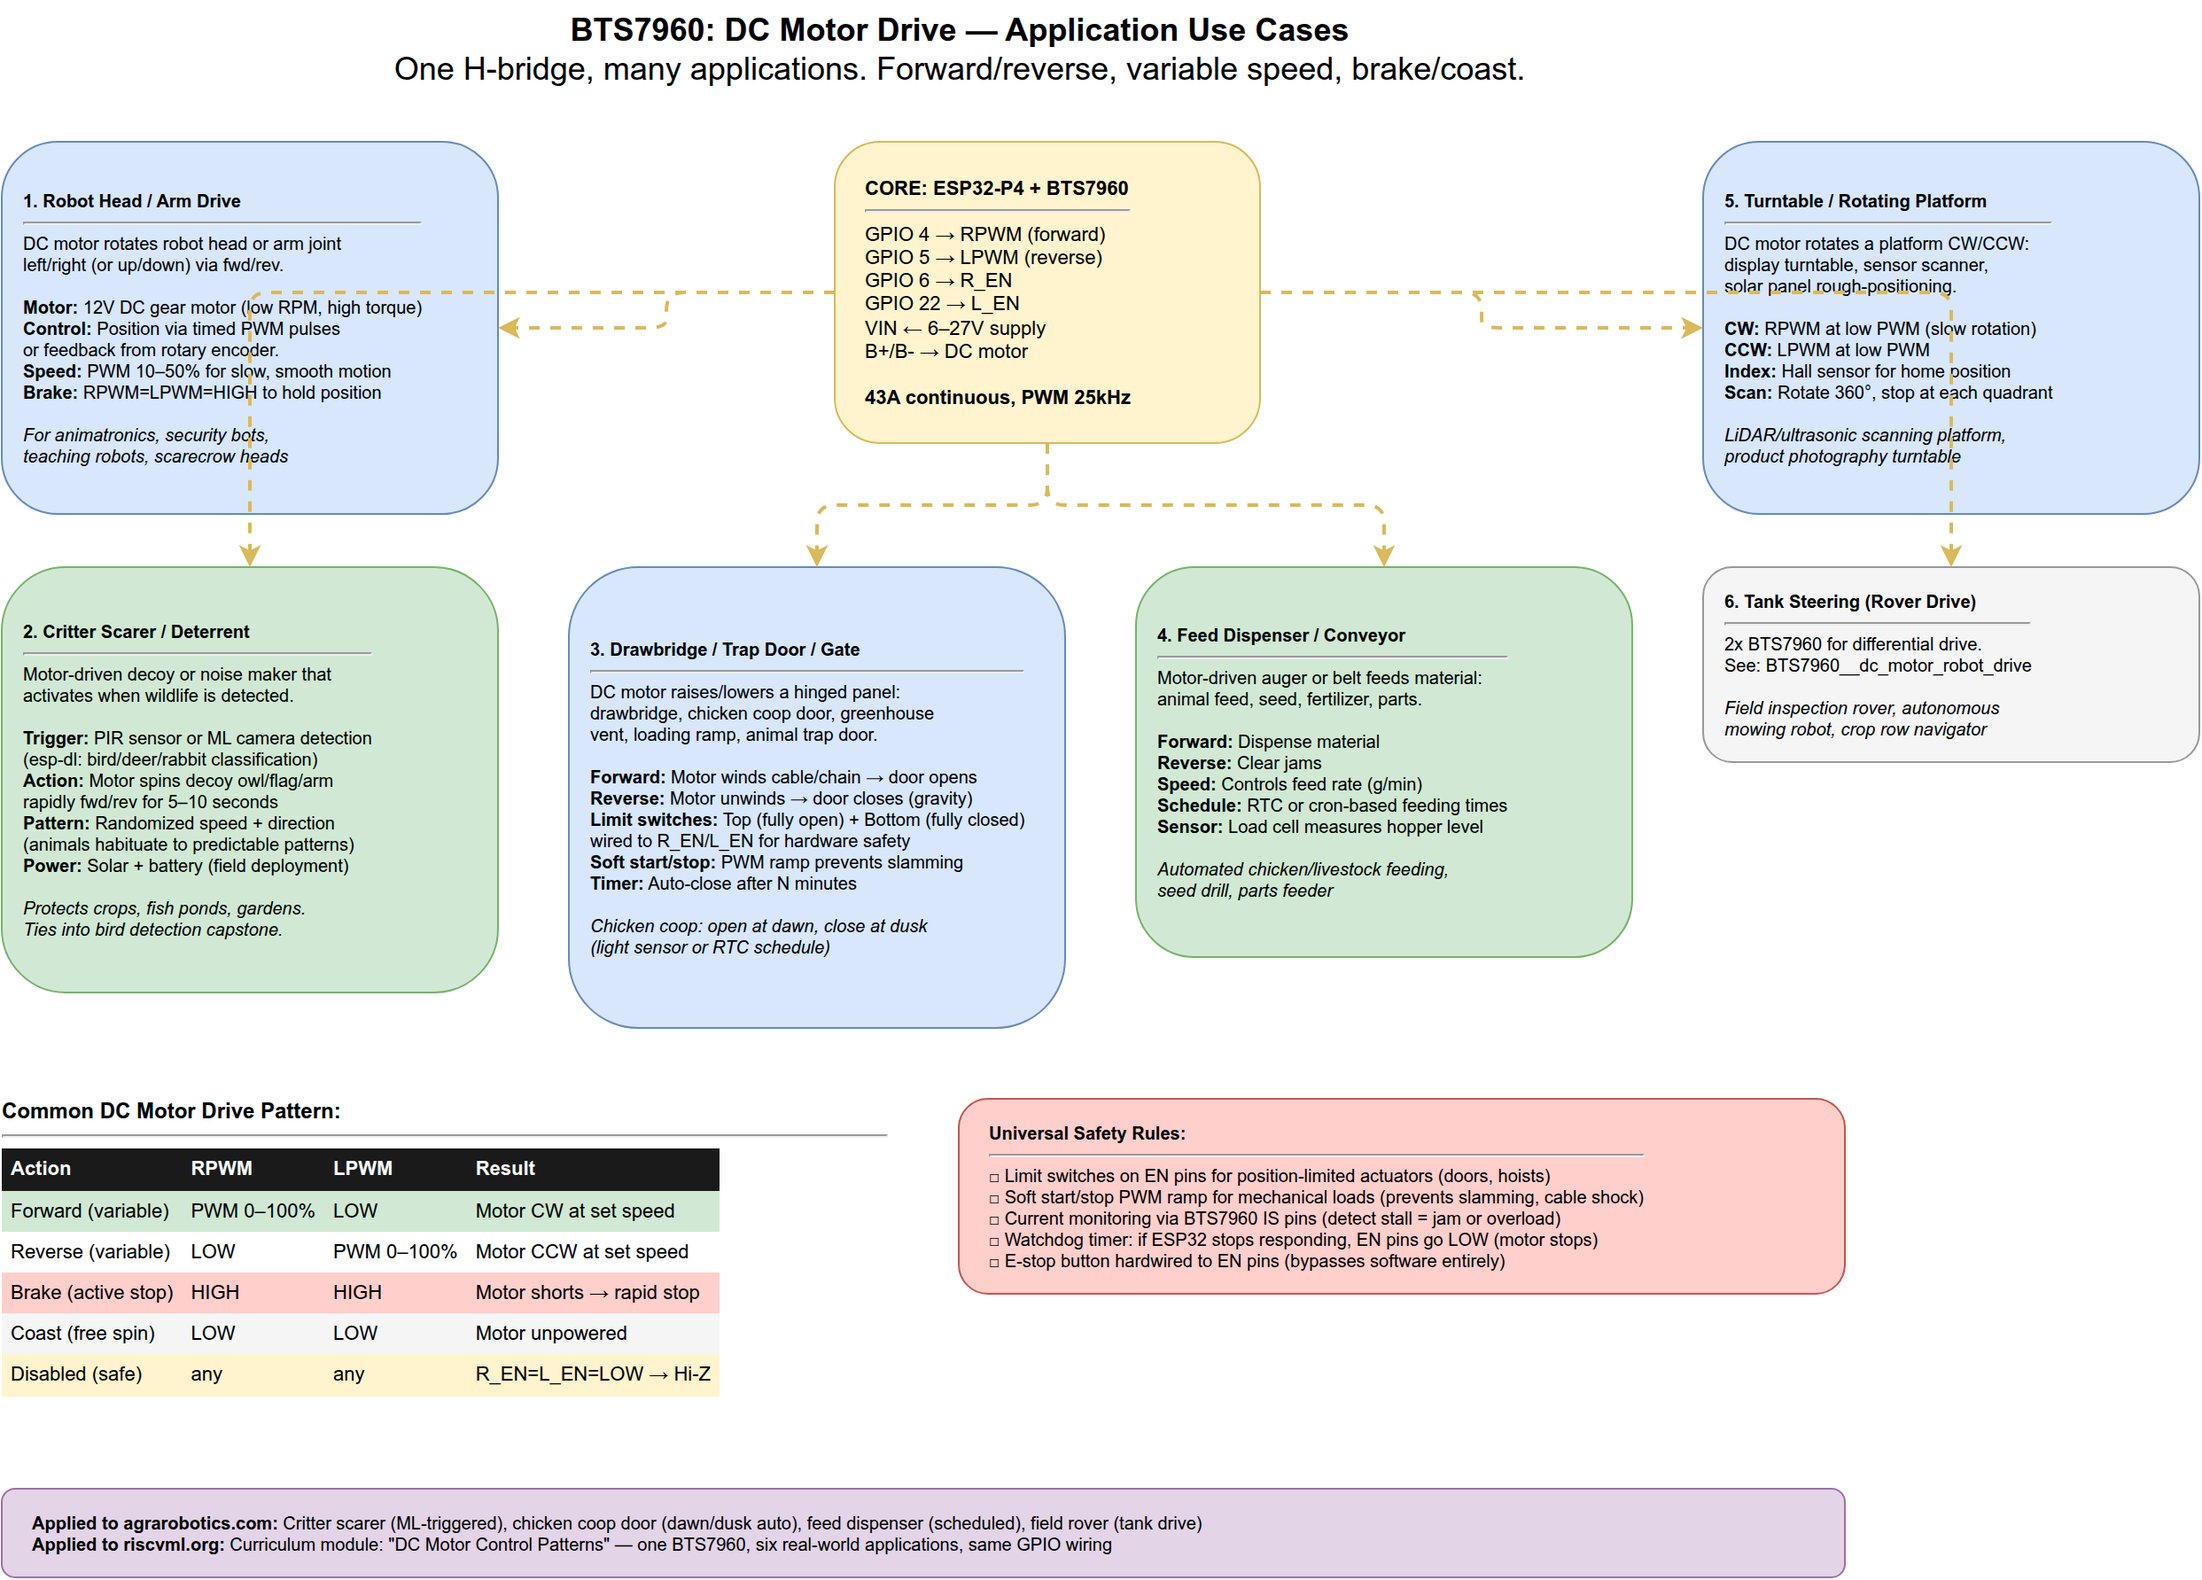
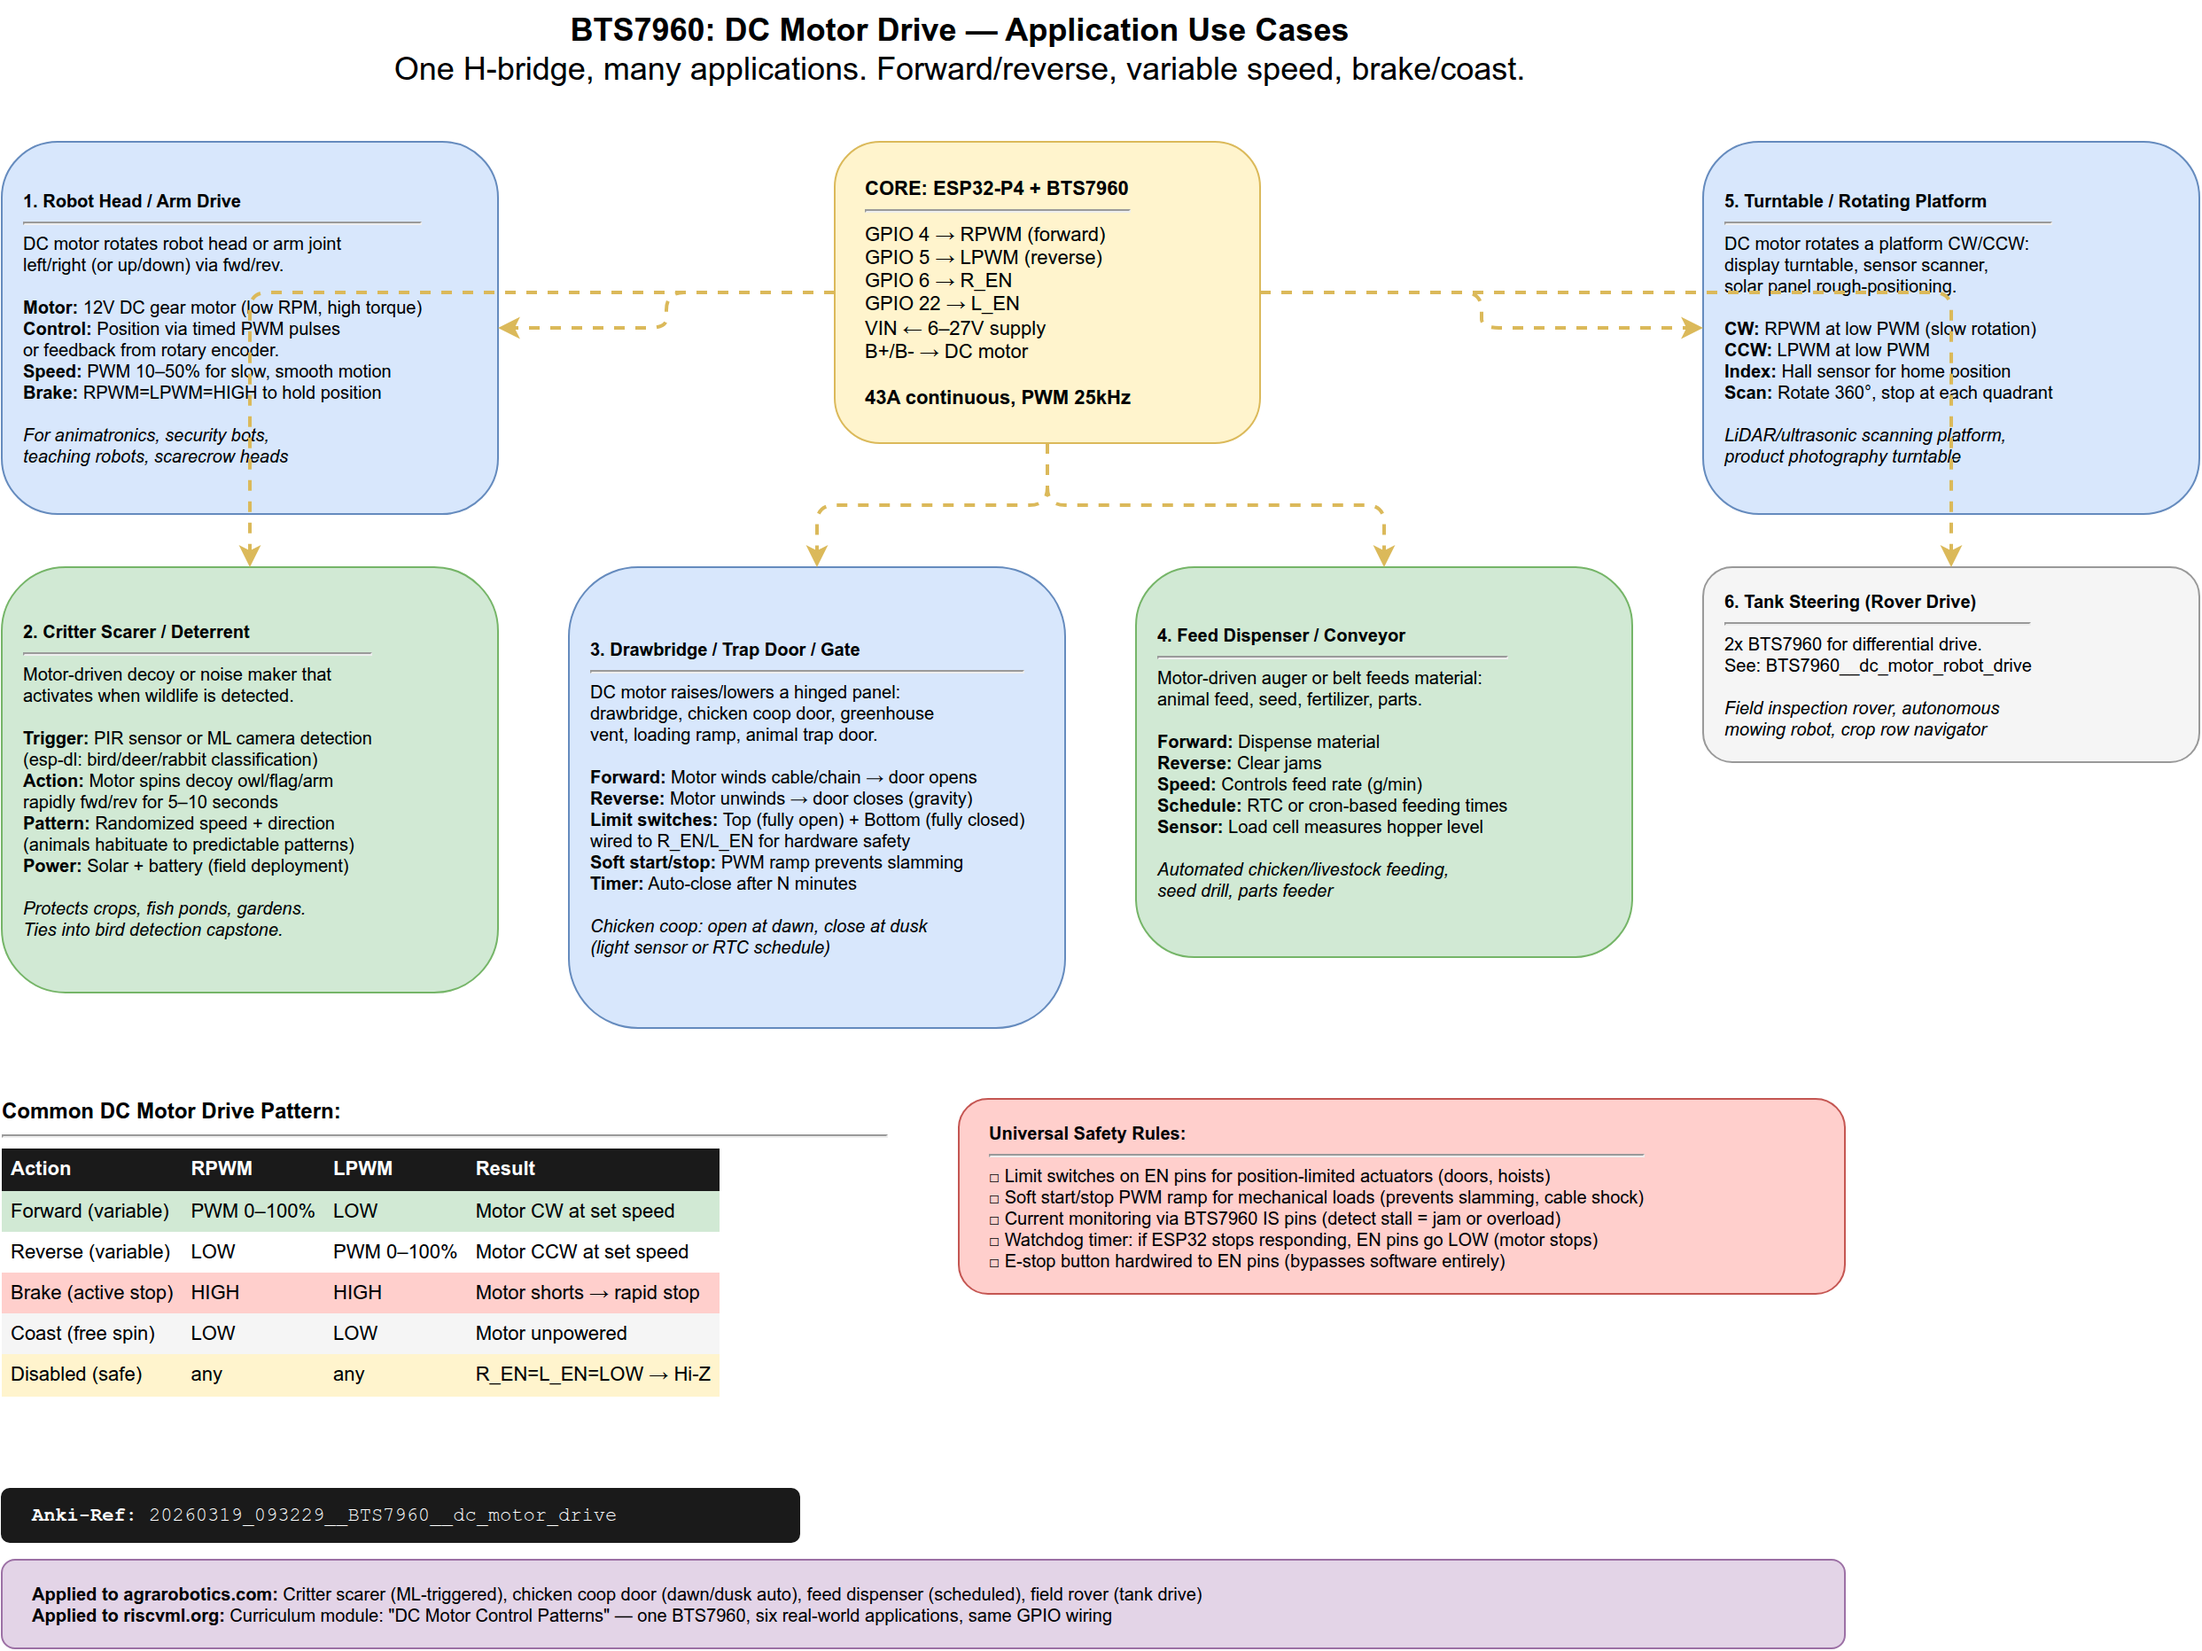
Add Anki-Ref convention: anki_refs/ and pics/ folders, label on diagrams
- Added Anki-Ref label (black bar) to dc_motor_drive diagram
- Created anki_refs/ folder for .apkg deck exports
- Created pics/ folder for build photos
- Updated svbprj.md with folder structure and Anki-Ref convention docs
- Format: <YYYYMMDD>_<HHMMSS>__<component>__<use_case>

diff --git a/esp32-p4_knuggets/rs_riscvml__esp32-p4-wifi6-kit-a__motor_driver_IBT2_BTS7960__servo_driver_PCA9685/svbprj.md b/esp32-p4_knuggets/rs_riscvml__esp32-p4-wifi6-kit-a__motor_driver_IBT2_BTS7960__servo_driver_PCA9685/svbprj.md
@@ -4,6 +4,35 @@
 **Board:** Waveshare ESP32-P4-WIFI6 Kit A
 **Modules:** IBT-2 (BTS7960 dual H-bridge) + PCA9685 (16-ch I2C servo driver)
 **Status:** IBT-2 firmware builds ✓ · PCA9685 firmware TODO
+**Anki-Ref:** `20260319_093229__BTS7960__dc_motor_drive`
+
+## Project Folder Structure
+
+```
+rs_riscvml__...__motor_driver_IBT2_BTS7960__servo_driver_PCA9685/
+├── svbprj.md                          ← this file
+├── anki_refs/                         ← Anki flashcard decks (.apkg exports)
+├── pics/                              ← photos of physical builds
+├── docs_about__motor_driver_.../      ← diagrams & docs
+│   ├── bts7960_usecases/              ← BTS7960 use-case diagrams + PNGs
+│   └── pca9685_usecases/              ← PCA9685 use-case diagrams + PNGs
+├── ...__free/                         ← student scaffolding (public)
+└── ...__full/                         ← reference solution (private)
+```
+
+### Anki-Ref Convention
+
+Each project/diagram has an Anki flashcard reference linking it to the Anki spaced-repetition deck:
+
+```
+Format: <YYYYMMDD>_<HHMMSS>__<component>__<use_case>
+Example: 20260319_093229__BTS7960__dc_motor_drive
+```
+
+- The `anki_refs/` folder holds exported Anki deck files (`.apkg`)
+- The `pics/` folder holds build photos used on Anki card fronts/backs
+- Each drawio diagram includes the Anki-Ref as a black label bar
+- The timestamp is the flashcard creation timestamp (not the diagram timestamp)
 
 ## Overview
 
